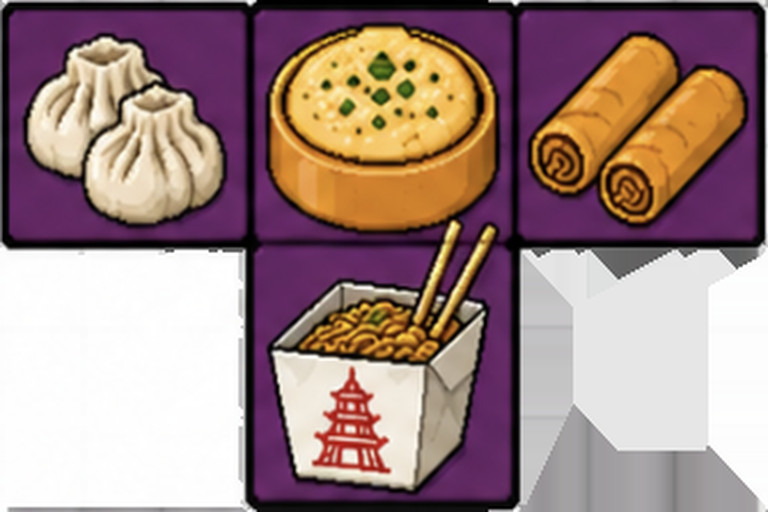
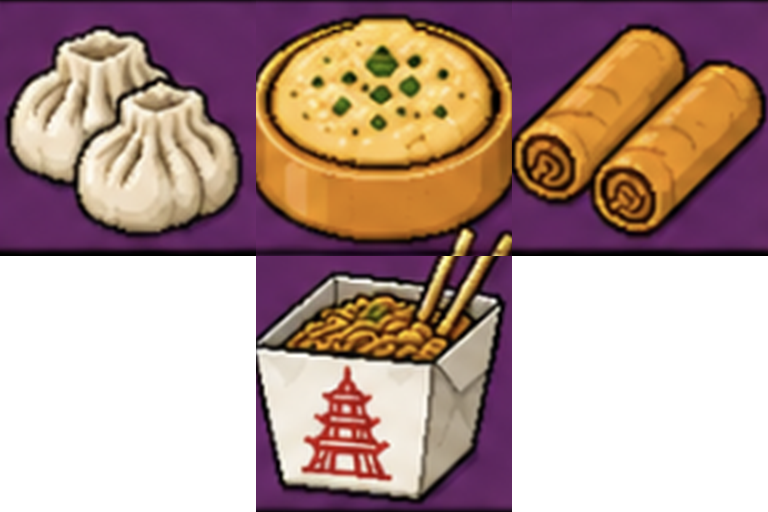
Sprites expanded to fill cells, no white padding, v7

diff --git a/index.html b/index.html
@@ -314,15 +314,15 @@
   };
   const KEYS = ["I", "O", "L", "S", "T", "AV", "TR", "SH"];  // common shuffle bag (BN banana + BB parcel removed for now)
   const SPRITE_SRC = {
-    sub: "assets/sub.png?v=6",
-    ubereats: "assets/ubereats.png?v=6",
-    banana: "assets/banana.png?v=6",
-    eggs: "assets/eggs.png?v=6",
-    groceries: "assets/groceries.png?v=6",
+    sub: "assets/sub.png?v=7",
+    ubereats: "assets/ubereats.png?v=7",
+    banana: "assets/banana.png?v=7",
+    eggs: "assets/eggs.png?v=7",
+    groceries: "assets/groceries.png?v=7",
     nana: "assets/nana.png",
-    toast: "assets/toast.png?v=6",
-    toilet: "assets/toilet.png?v=6",
-    shampoo: "assets/shampoo.png?v=6",
+    toast: "assets/toast.png?v=7",
+    toilet: "assets/toilet.png?v=7",
+    shampoo: "assets/shampoo.png?v=7",
     parcel: "assets/parcel.png"
   };
   const SPRITES = {}; // key -> { rots: [canvas x4] }  (rots[r] = image rotated r*90° CW)
